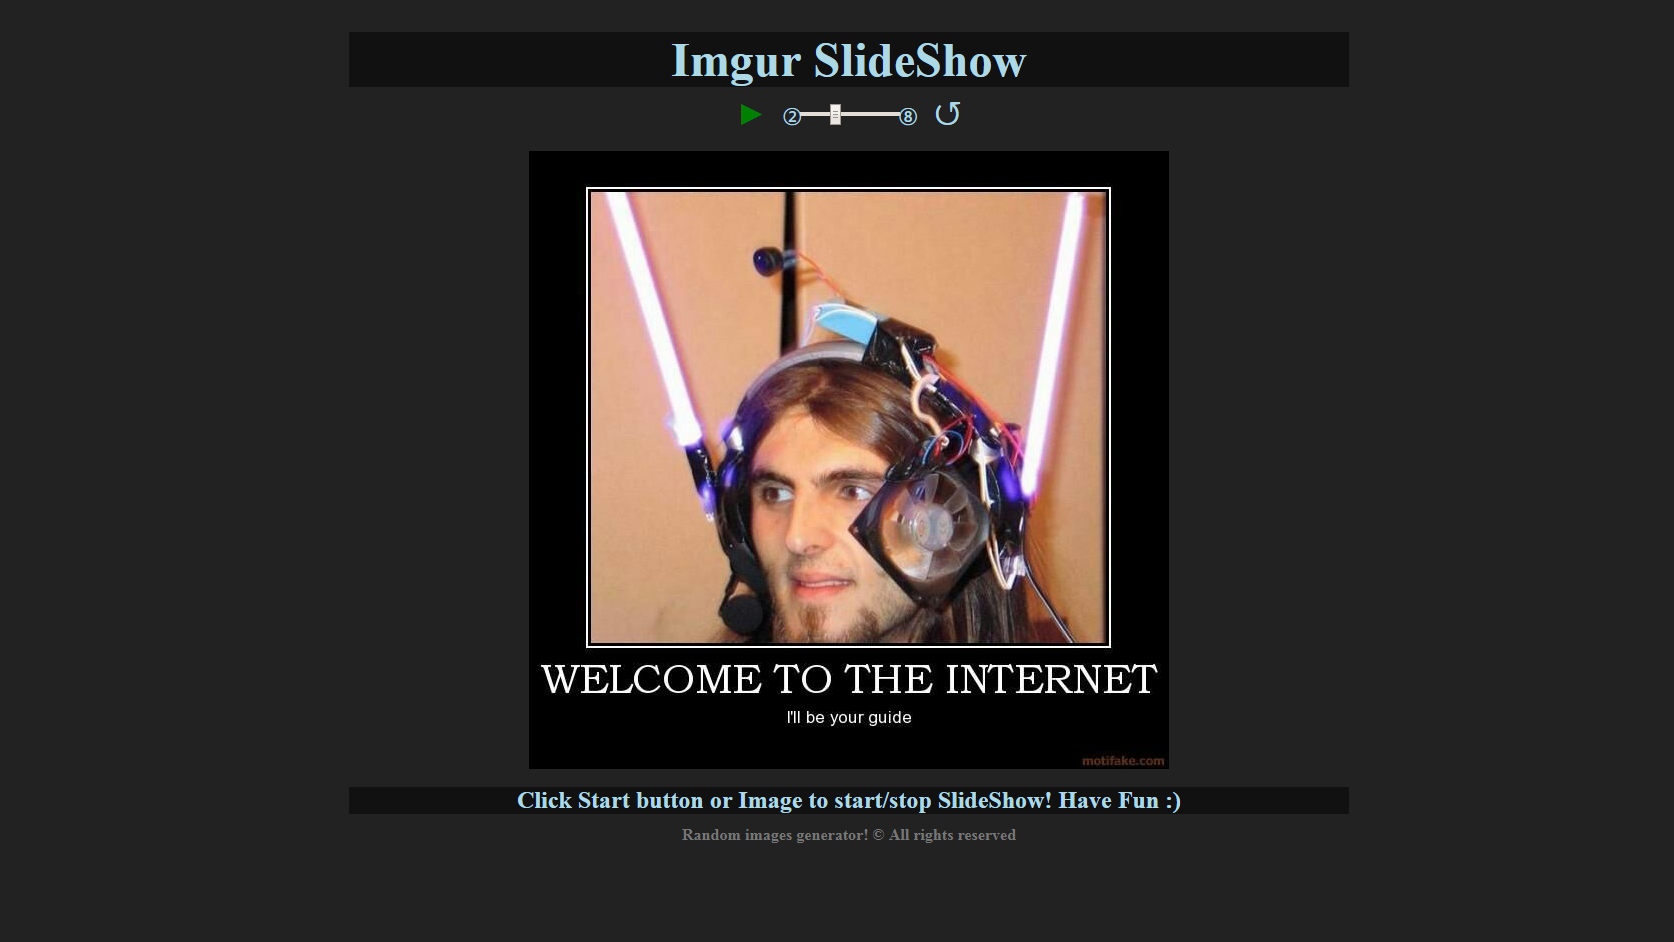
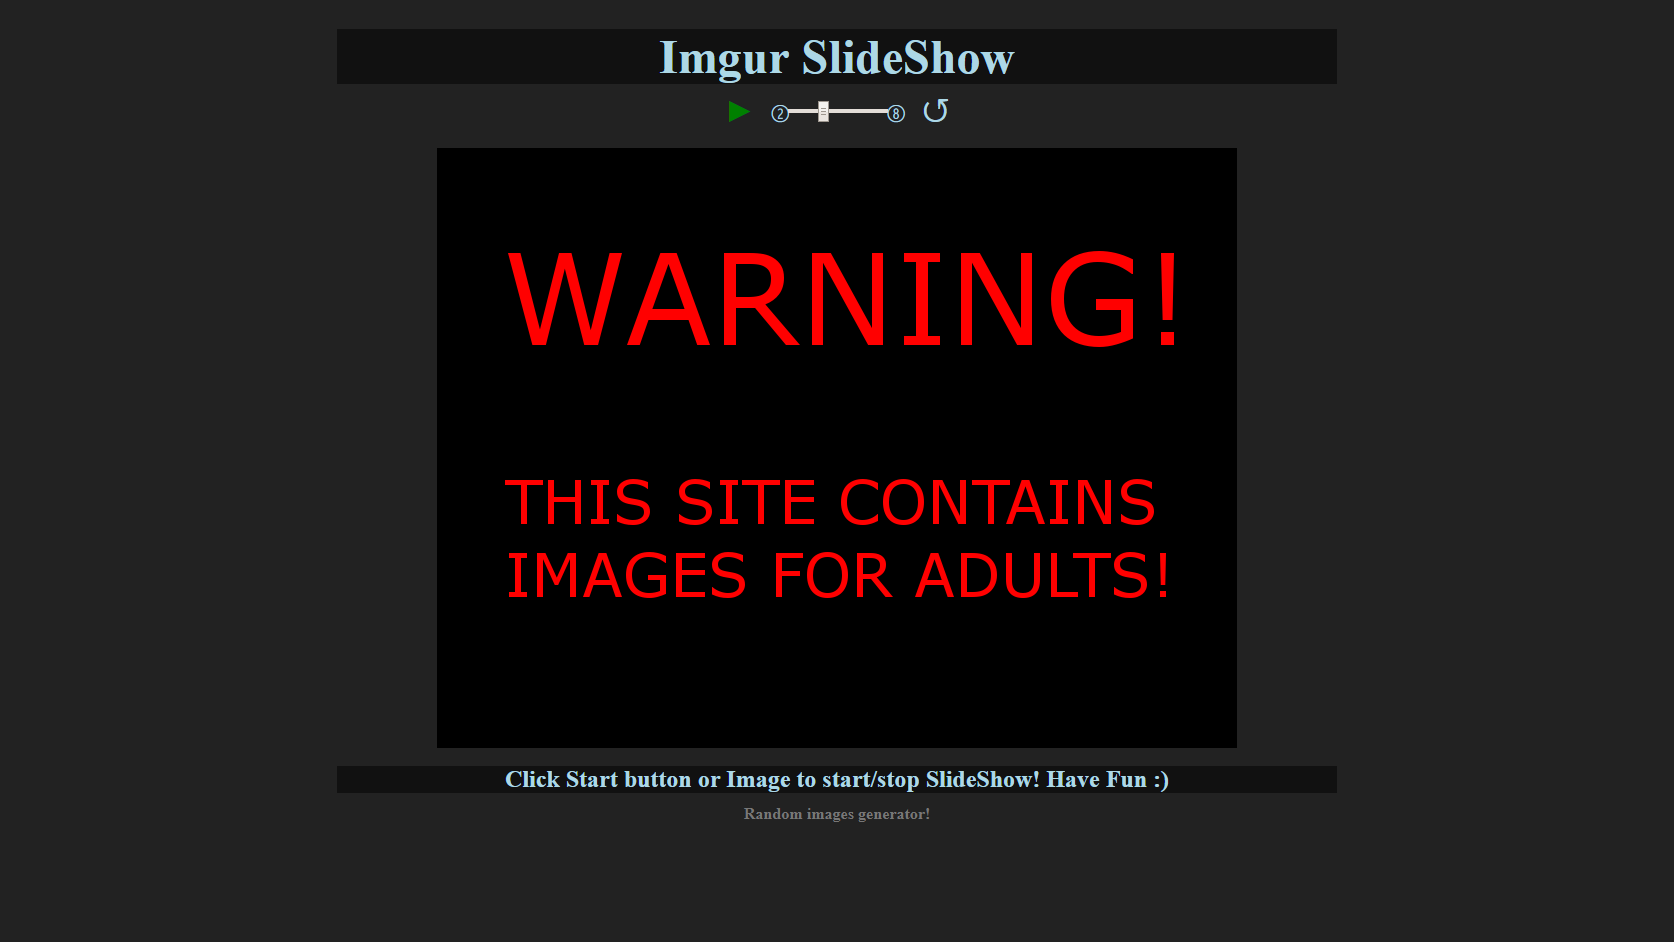
warning

Changed region(s): [[0.2485, 0.0308, 0.7455, 0.8928]]

diff --git a/imgur/index.html b/imgur/index.html
@@ -311,7 +311,7 @@
 </div>
 
 	<div id="picture" >
-		<img id="Img" onclick="TurnONOFF()" style=" max-width: 100%; " src="http://pm1.narvii.com/6404/3a2d8bdbe8452d7f8507ab2d41173d4ef4a91b9e_hq.jpg" />
+		<img id="Img" onclick="TurnONOFF()" style=" max-width: 100%; " src="warning.png" />
 	</div>
 
 
